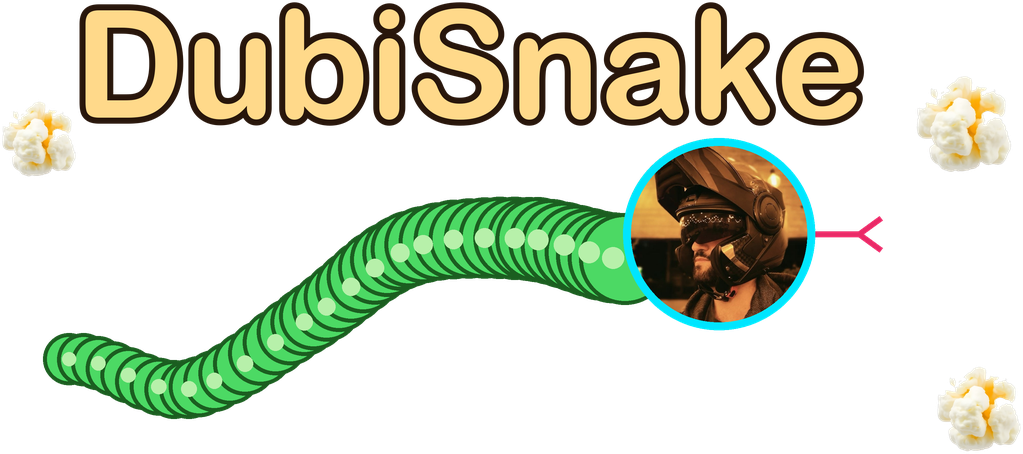
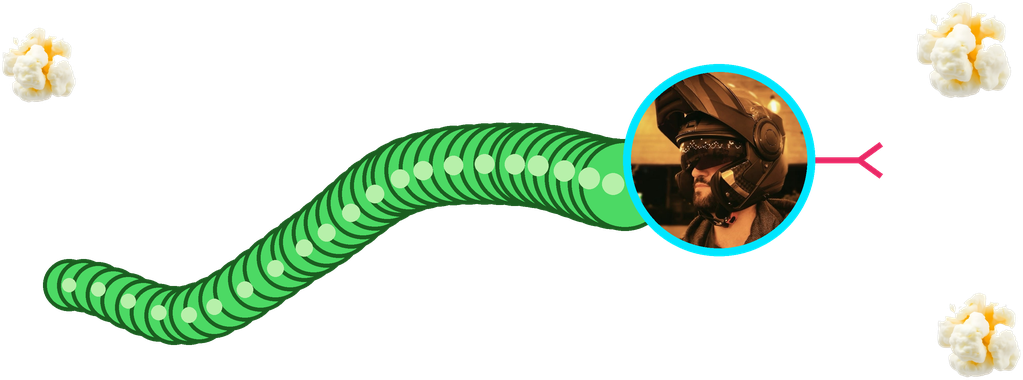
Start screen: declutter menu - drop tagline, faint low art, highlight demo
- Remove the 'Eat the popcorn!' tagline from the menu (no overlapping text).
- Backdrop art is now text-only-free (snake + head + popcorn, no wordmark),
  sat low (center 74%) and heavily dimmed (0.66 scrim) so it reads as a faint
  decorative footer.
- Highlight the how-to-play demo: larger stage + a soft cyan glow disc, so the
  controls are the clear focus of the start screen.

diff --git a/index.html b/index.html
@@ -402,7 +402,7 @@
      only the menu carries it. */
   #overlay.menuBanner {
     background-image:
-      linear-gradient(rgba(10, 8, 7, 0.5), rgba(10, 8, 7, 0.5)),
+      linear-gradient(rgba(10, 8, 7, 0.66), rgba(10, 8, 7, 0.66)),
       url("assets/menu-backdrop.png");
     /* TRANSPARENT backdrop art (no dark banner box/frame) so it blends into the
        screen uniformly, like the README hero. `contain` fits the whole 1.9:1
@@ -411,9 +411,10 @@
        stay legible. The "Eat the popcorn!" wording is the DOM .tagline, so this
        art carries only the DubiSnake wordmark + snake/head/popcorn. */
     background-size: contain;
-    /* Sit the art high in the board so its DubiSnake wordmark clears the
-       vertically-centered .tagline / controls below it (no text collision). */
-    background-position: center 22%;
+    /* Art-only backdrop (snake + head + popcorn, no wordmark): sit it LOW so it
+       reads as a faint decorative footer well below the highlighted control
+       demo. Heavy scrim above keeps it subtle/transparent. */
+    background-position: center 74%;
     background-repeat: no-repeat;
   }
   /* Centers vertically via margin:auto instead of justify-content:center on
@@ -603,7 +604,7 @@
      (already published by resizeCanvas()) so it scales with the board
      instead of introducing a new fixed-px block into the overlay stack. */
   .howto {
-    --ht-stage: min(146px, calc(var(--board-px, 300px) * 0.44));
+    --ht-stage: min(178px, calc(var(--board-px, 300px) * 0.54));
     --ht-travel: calc(var(--ht-stage) * 0.30);
     --ht-nudge: calc(var(--ht-stage) * 0.055);
     --ht-keydrop: calc(var(--ht-stage) * 0.028);
@@ -611,6 +612,10 @@
     width: var(--ht-stage);
     height: var(--ht-stage);
     flex: none;
+    /* Highlight the how-to-play demo on the menu: a soft cyan glow disc lifts
+       it off the (now faint) backdrop so the controls are the clear focus. */
+    background: radial-gradient(closest-side, rgba(0, 229, 255, 0.18), rgba(0, 229, 255, 0) 76%);
+    border-radius: 50%;
   }
   /* Base centering for every child; the arrows then override with their own
      offset transforms. Keyframes below re-declare the full transform
@@ -2302,7 +2307,6 @@
     overlay.classList.add("menuBanner");
     overlay.innerHTML =
       '<div class="overlayInner">' +
-      '<p class="tagline">' + S().menuInstructions + '</p>' +
       // Language-independent (icons only), so it needs no S() lookup and
       // survives applyLanguage()'s rebuild unchanged. dir="ltr" pins the
       // flex-row snake against RTL reversal - see the static markup comment.

diff --git a/src/css/overlay.css b/src/css/overlay.css
@@ -39,7 +39,7 @@
      only the menu carries it. */
   #overlay.menuBanner {
     background-image:
-      linear-gradient(rgba(10, 8, 7, 0.5), rgba(10, 8, 7, 0.5)),
+      linear-gradient(rgba(10, 8, 7, 0.66), rgba(10, 8, 7, 0.66)),
       url("assets/menu-backdrop.png");
     /* TRANSPARENT backdrop art (no dark banner box/frame) so it blends into the
        screen uniformly, like the README hero. `contain` fits the whole 1.9:1
@@ -48,9 +48,10 @@
        stay legible. The "Eat the popcorn!" wording is the DOM .tagline, so this
        art carries only the DubiSnake wordmark + snake/head/popcorn. */
     background-size: contain;
-    /* Sit the art high in the board so its DubiSnake wordmark clears the
-       vertically-centered .tagline / controls below it (no text collision). */
-    background-position: center 22%;
+    /* Art-only backdrop (snake + head + popcorn, no wordmark): sit it LOW so it
+       reads as a faint decorative footer well below the highlighted control
+       demo. Heavy scrim above keeps it subtle/transparent. */
+    background-position: center 74%;
     background-repeat: no-repeat;
   }
   /* Centers vertically via margin:auto instead of justify-content:center on

diff --git a/src/css/tutorial.css b/src/css/tutorial.css
@@ -9,7 +9,7 @@
      (already published by resizeCanvas()) so it scales with the board
      instead of introducing a new fixed-px block into the overlay stack. */
   .howto {
-    --ht-stage: min(146px, calc(var(--board-px, 300px) * 0.44));
+    --ht-stage: min(178px, calc(var(--board-px, 300px) * 0.54));
     --ht-travel: calc(var(--ht-stage) * 0.30);
     --ht-nudge: calc(var(--ht-stage) * 0.055);
     --ht-keydrop: calc(var(--ht-stage) * 0.028);
@@ -17,6 +17,10 @@
     width: var(--ht-stage);
     height: var(--ht-stage);
     flex: none;
+    /* Highlight the how-to-play demo on the menu: a soft cyan glow disc lifts
+       it off the (now faint) backdrop so the controls are the clear focus. */
+    background: radial-gradient(closest-side, rgba(0, 229, 255, 0.18), rgba(0, 229, 255, 0) 76%);
+    border-radius: 50%;
   }
   /* Base centering for every child; the arrows then override with their own
      offset transforms. Keyframes below re-declare the full transform

diff --git a/src/js/overlays.js b/src/js/overlays.js
@@ -12,7 +12,6 @@
     overlay.classList.add("menuBanner");
     overlay.innerHTML =
       '<div class="overlayInner">' +
-      '<p class="tagline">' + S().menuInstructions + '</p>' +
       // Language-independent (icons only), so it needs no S() lookup and
       // survives applyLanguage()'s rebuild unchanged. dir="ltr" pins the
       // flex-row snake against RTL reversal - see the static markup comment.